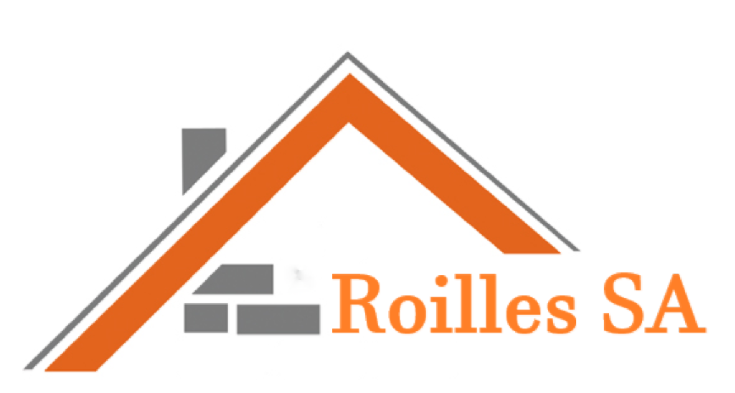
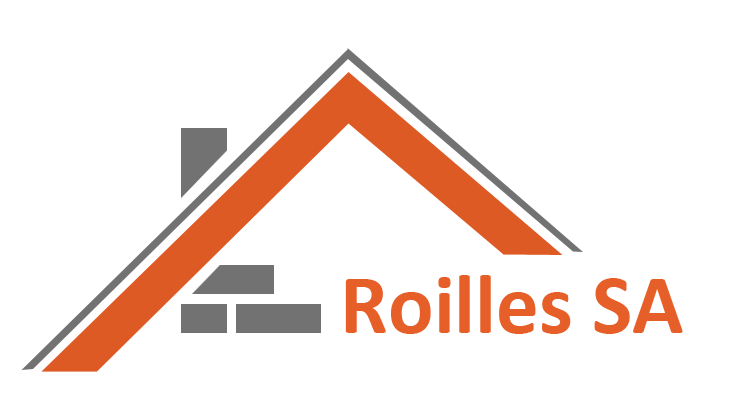
000

diff --git a/PPE/index.php b/PPE/index.php
@@ -211,7 +211,7 @@ include("controleur/controleur.php")
                     <div class="single_widget_area">
                         <!-- Logo -->
                         <div class="footer-logo mr-50">
-                            <a href="index.html"><img src="img/core-img/logo2.png" alt=""></a>
+                            <a href="index.html"><img src="imgage/roilles.PNG" alt=""></a>
                         </div>
                         <!-- Copywrite Text -->
                         <p class="copywrite"><!-- Link back to Colorlib can't be removed. Template is licensed under CC BY 3.0. -->

diff --git a/PPE/panier.php b/PPE/panier.php
@@ -234,7 +234,7 @@
                     <div class="single_widget_area">
                         <!-- Logo -->
                         <div class="footer-logo mr-50">
-                            <a href="index.html"><img src="img/core-img/logo2.png" alt=""></a>
+                            <a href="index.html"><img src="imgage/roilles.PNG" alt=""></a>
                         </div>
                         <!-- Copywrite Text -->
                         <p class="copywrite"><!-- Link back to Colorlib can't be removed. Template is licensed under CC BY 3.0. -->

diff --git a/PPE/product-details.php b/PPE/product-details.php
@@ -239,7 +239,7 @@
                     <div class="single_widget_area">
                         <!-- Logo -->
                         <div class="footer-logo mr-50">
-                            <a href="index.html"><img src="img/core-img/logo2.png" alt=""></a>
+                            <a href="index.html"><img src="imgage/roilles.PNG" alt=""></a>
                         </div>
                         <!-- Copywrite Text -->
                         <p class="copywrite"><!-- Link back to Colorlib can't be removed. Template is licensed under CC BY 3.0. -->

diff --git a/PPE/shopBrico.php b/PPE/shopBrico.php
@@ -253,7 +253,7 @@
                     <div class="single_widget_area">
                         <!-- Logo -->
                         <div class="footer-logo mr-50">
-                            <a href="index.html"><img src="img/core-img/logo2.png" alt=""></a>
+                            <a href="index.html"><img src="imgage/roilles.PNG" alt=""></a>
                         </div>
                         <!-- Copywrite Text -->
                         <p class="copywrite"><!-- Link back to Colorlib can't be removed. Template is licensed under CC BY 3.0. -->

diff --git a/PPE/shopCons.php b/PPE/shopCons.php
@@ -252,7 +252,7 @@
                     <div class="single_widget_area">
                         <!-- Logo -->
                         <div class="footer-logo mr-50">
-                            <a href="index.html"><img src="img/core-img/logo2.png" alt=""></a>
+                            <a href="index.html"><img src="imgage/roilles.PNG" alt=""></a>
                         </div>
                         <!-- Copywrite Text -->
                         <p class="copywrite"><!-- Link back to Colorlib can't be removed. Template is licensed under CC BY 3.0. -->

diff --git a/PPE/shopEngin.php b/PPE/shopEngin.php
@@ -254,7 +254,7 @@
                     <div class="single_widget_area">
                         <!-- Logo -->
                         <div class="footer-logo mr-50">
-                            <a href="index.html"><img src="img/core-img/logo2.png" alt=""></a>
+                            <a href="index.html"><img src="imgage/roilles.PNG" alt=""></a>
                         </div>
                         <!-- Copywrite Text -->
                         <p class="copywrite"><!-- Link back to Colorlib can't be removed. Template is licensed under CC BY 3.0. -->

diff --git a/PPE/shopJard.php b/PPE/shopJard.php
@@ -253,7 +253,7 @@
                     <div class="single_widget_area">
                         <!-- Logo -->
                         <div class="footer-logo mr-50">
-                            <a href="index.html"><img src="img/core-img/logo2.png" alt=""></a>
+                            <a href="index.html"><img src="imgage/roilles.PNG" alt=""></a>
                         </div>
                         <!-- Copywrite Text -->
                         <p class="copywrite"><!-- Link back to Colorlib can't be removed. Template is licensed under CC BY 3.0. -->
